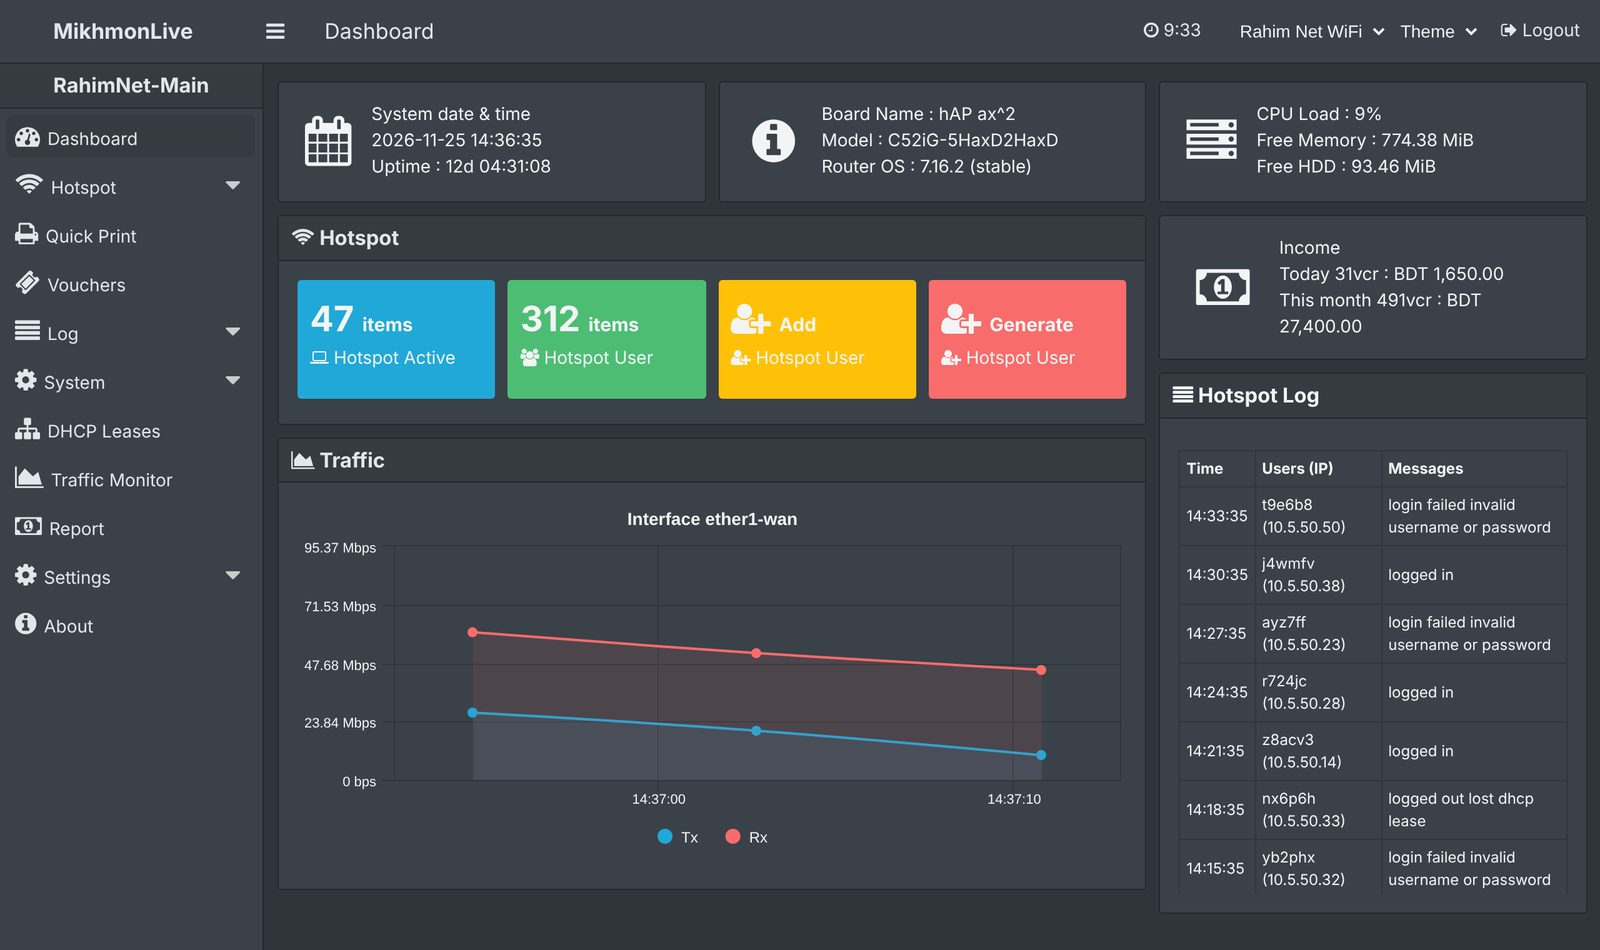
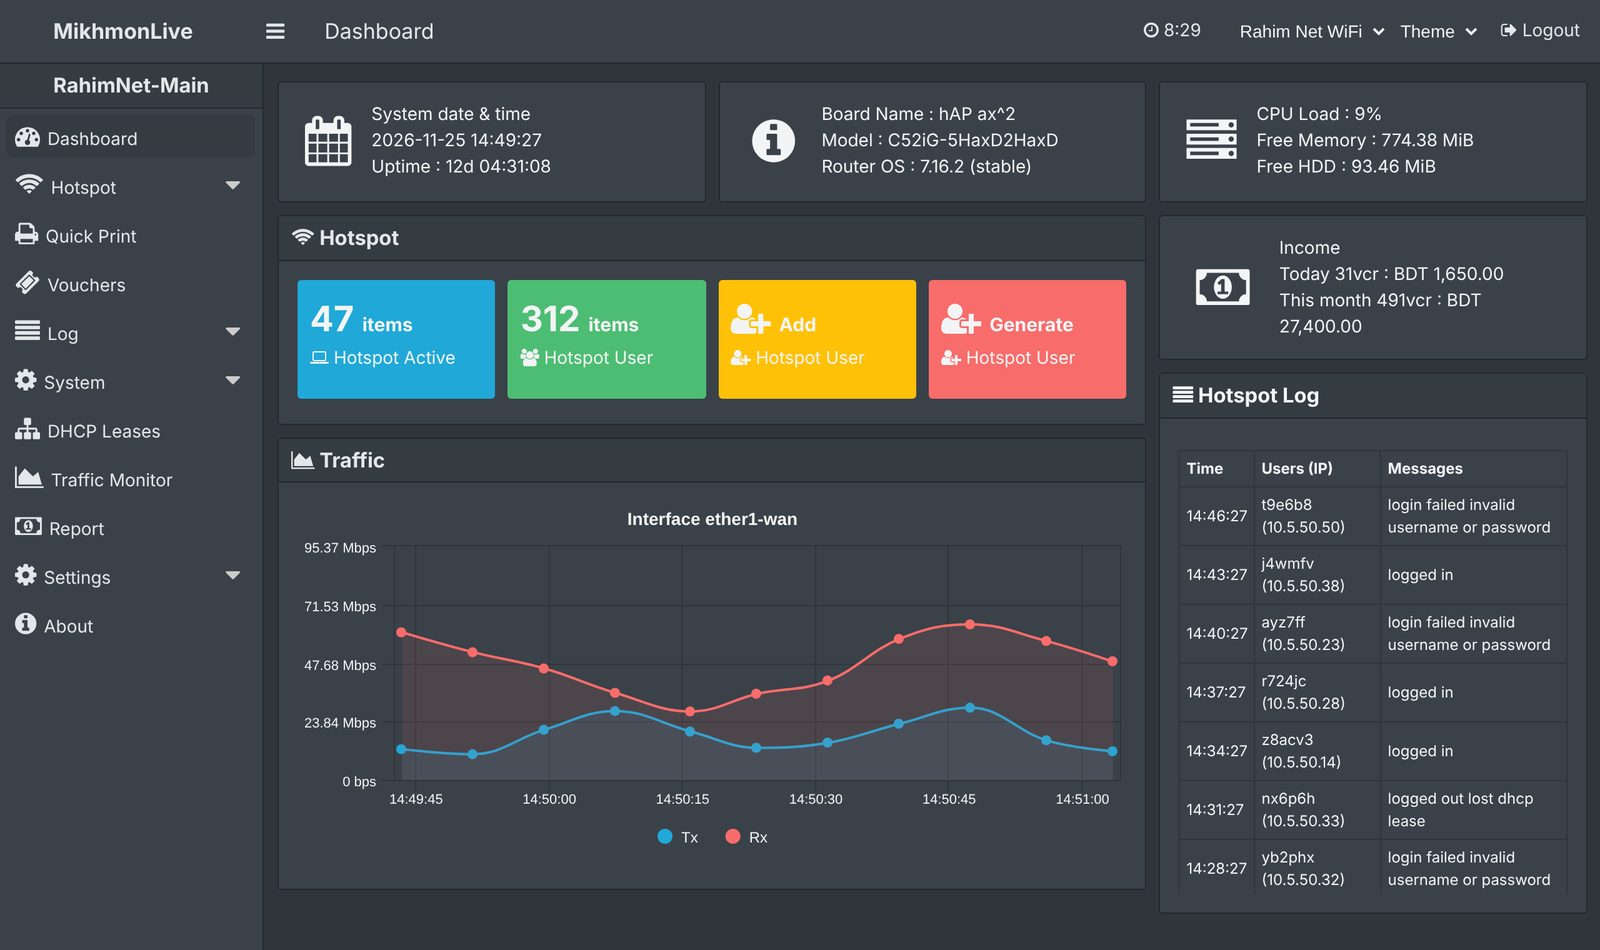
Portal: search engine optimisation of the landing page
- English (/) and Bangla (/?hl=bn) addresses with hreflang, canonical,
  title and description per language.
- Open Graph / Twitter cards with a 1200x630 preview image, favicon,
  optional Google / Bing verification tags.
- JSON-LD: organisation, website, the service with its packages as
  offers, and the FAQ.
- robots.txt and sitemap.xml from index.php (.htaccess for Apache,
  nginx lines in the README).
- Account pages and every customer subdomain send noindex; the app folder
  gets a robots.txt that blocks crawling.
- Hero screenshot retaken with a full live traffic chart.

Claude-Session: https://claude.ai/code/session_01LXHuYuxqYFuxwA2rCPLVcq

diff --git a/portal/src/seo.php b/portal/src/seo.php
@@ -1,0 +1,148 @@
+<?php
+/*
+ *  MikhmonLive portal - search engine optimisation.
+ *
+ *  - Two indexable addresses for the landing page:
+ *        https://mikhmonlive.com/          English
+ *        https://mikhmonlive.com/?hl=bn    Bangla
+ *    linked to each other with hreflang, each with its own canonical URL.
+ *  - Title, description, Open Graph / Twitter cards, favicon.
+ *  - Structured data (JSON-LD): Organization, WebSite, the service with
+ *    its three packages as offers, and the FAQ.
+ *  - /robots.txt and /sitemap.xml (served by index.php, see README).
+ *  - Account pages of the portal and every customer subdomain are noindex.
+ */
+
+if (!function_exists('mkp_site_url')) {
+
+	/** https://mikhmonlive.com (no trailing slash). */
+	function mkp_site_url()
+	{
+		$u = rtrim((string)mkl_site('portal_url'), '/');
+		return $u != '' ? $u : 'https://' . mkl_site('base_domain');
+	}
+
+	/** Address of the landing page in a language. */
+	function mkp_landing_url($lang)
+	{
+		return mkp_site_url() . '/' . ($lang == 'bn' ? '?hl=bn' : '');
+	}
+
+	function mkp_seo_title()
+	{
+		return t('seo_title', array(mkl_site('brand')));
+	}
+
+	/** All head tags of the landing page. */
+	function mkp_seo_head()
+	{
+		$lang = mkp_lang();
+		$url = mkp_landing_url($lang);
+		$title = mkp_seo_title();
+		$desc = t('seo_desc', array((int)mkl_site('trial_days')));
+		$img = mkp_site_url() . '/assets/og-image.jpg';
+		$h = '<title>' . e($title) . '</title>'
+			. '<meta name="description" content="' . e($desc) . '">'
+			. '<meta name="robots" content="index,follow,max-image-preview:large">'
+			. '<link rel="canonical" href="' . e($url) . '">'
+			. '<link rel="alternate" hreflang="en" href="' . e(mkp_landing_url('en')) . '">'
+			. '<link rel="alternate" hreflang="bn" href="' . e(mkp_landing_url('bn')) . '">'
+			. '<link rel="alternate" hreflang="x-default" href="' . e(mkp_landing_url('en')) . '">'
+			. '<meta name="theme-color" content="#07111f">'
+			. '<link rel="icon" type="image/png" href="assets/favicon.png"><link rel="apple-touch-icon" href="assets/favicon.png">'
+			// social cards (Facebook, WhatsApp, Messenger, LinkedIn, X)
+			. '<meta property="og:type" content="website">'
+			. '<meta property="og:site_name" content="' . e(mkl_site('brand')) . '">'
+			. '<meta property="og:url" content="' . e($url) . '">'
+			. '<meta property="og:title" content="' . e($title) . '">'
+			. '<meta property="og:description" content="' . e($desc) . '">'
+			. '<meta property="og:image" content="' . e($img) . '"><meta property="og:image:width" content="1200"><meta property="og:image:height" content="630">'
+			. '<meta property="og:image:alt" content="' . e(t('m_alt')) . '">'
+			. '<meta property="og:locale" content="' . ($lang == 'bn' ? 'bn_BD' : 'en_US') . '">'
+			. '<meta property="og:locale:alternate" content="' . ($lang == 'bn' ? 'en_US' : 'bn_BD') . '">'
+			. '<meta name="twitter:card" content="summary_large_image">'
+			. '<meta name="twitter:title" content="' . e($title) . '"><meta name="twitter:description" content="' . e($desc) . '">'
+			. '<meta name="twitter:image" content="' . e($img) . '">';
+		// ownership checks of Google Search Console and Bing Webmaster Tools
+		if (mkl_site('google_site_verification') != '') {
+			$h .= '<meta name="google-site-verification" content="' . e(mkl_site('google_site_verification')) . '">';
+		}
+		if (mkl_site('bing_site_verification') != '') {
+			$h .= '<meta name="msvalidate.01" content="' . e(mkl_site('bing_site_verification')) . '">';
+		}
+		return $h . mkp_seo_jsonld();
+	}
+
+	/** Structured data for rich results. Only facts shown on the page. */
+	function mkp_seo_jsonld()
+	{
+		$site = mkp_site_url();
+		$lang = mkp_lang();
+		$offers = array();
+		foreach (mkp_packages() as $p) {
+			$offers[] = array(
+				'@type' => 'Offer',
+				'name' => mkp_package_name($p),
+				'description' => t($p['routers'] == 1 ? 'pkg_routers' : 'pkg_routers_n', array($p['routers'])) . ', ' . t('per_year'),
+				'price' => (string)$p['price'],
+				'priceCurrency' => mkl_site('currency'),
+				'url' => mkp_landing_url($lang) . '#pricing',
+				'availability' => 'https://schema.org/InStock',
+				'category' => 'subscription',
+			);
+		}
+		$faq = array();
+		for ($i = 1; $i <= 8; $i++) {
+			$faq[] = array('@type' => 'Question', 'name' => t('q' . $i),
+				'acceptedAnswer' => array('@type' => 'Answer', 'text' => t('a' . $i, array((int)mkl_site('trial_days')))));
+		}
+		$org = array('@type' => 'Organization', '@id' => $site . '/#org', 'name' => mkl_site('brand'), 'url' => $site . '/', 'logo' => $site . '/assets/favicon.png');
+		if (mkl_site('support_contact') != '' && strpos(mkl_site('support_contact'), '@') !== false) {
+			$org['email'] = mkl_site('support_contact');
+		}
+		$graph = array(
+			'@context' => 'https://schema.org',
+			'@graph' => array(
+				$org,
+				array('@type' => 'WebSite', '@id' => $site . '/#web', 'name' => mkl_site('brand'), 'url' => $site . '/',
+					'inLanguage' => array('en', 'bn'), 'publisher' => array('@id' => $site . '/#org')),
+				array('@type' => 'SoftwareApplication', '@id' => $site . '/#app', 'name' => mkl_site('brand'),
+					'description' => t('seo_desc', array((int)mkl_site('trial_days'))),
+					'applicationCategory' => 'BusinessApplication', 'applicationSubCategory' => 'Hotspot management',
+					'operatingSystem' => 'Web browser; MikroTik RouterOS v6, v7',
+					'url' => mkp_landing_url($lang), 'image' => $site . '/assets/dashboard.jpg', 'screenshot' => $site . '/assets/dashboard.jpg',
+					'inLanguage' => $lang, 'publisher' => array('@id' => $site . '/#org'),
+					'featureList' => array(t('f1'), t('f2'), t('f3'), t('f4'), t('f5'), t('f6'), t('f7'), t('f8'), t('f9')),
+					'offers' => $offers),
+				array('@type' => 'FAQPage', '@id' => mkp_landing_url($lang) . '#faq', 'inLanguage' => $lang, 'mainEntity' => $faq),
+			),
+		);
+		// "</" must not appear inside a script element
+		return '<script type="application/ld+json">' . str_replace('</', '<\/', json_encode($graph, JSON_UNESCAPED_SLASHES | JSON_UNESCAPED_UNICODE)) . '</script>';
+	}
+
+	function mkp_robots_txt()
+	{
+		header('Content-Type: text/plain; charset=utf-8');
+		echo "User-agent: *\n"
+			. "Allow: /\n"
+			// account pages carry noindex as well; this saves crawl time
+			. "Disallow: /?p=\n"
+			. "\nSitemap: " . mkp_site_url() . "/sitemap.xml\n";
+	}
+
+	function mkp_sitemap_xml()
+	{
+		$last = date('Y-m-d', max(filemtime(__DIR__ . '/views_landing.php'), filemtime(__DIR__ . '/lang_landing.php')));
+		header('Content-Type: application/xml; charset=utf-8');
+		$alt = '<xhtml:link rel="alternate" hreflang="en" href="' . e(mkp_landing_url('en')) . '"/>'
+			. '<xhtml:link rel="alternate" hreflang="bn" href="' . e(mkp_landing_url('bn')) . '"/>'
+			. '<xhtml:link rel="alternate" hreflang="x-default" href="' . e(mkp_landing_url('en')) . '"/>';
+		echo '<?xml version="1.0" encoding="UTF-8"?>' . "\n"
+			. '<urlset xmlns="http://www.sitemaps.org/schemas/sitemap/0.9" xmlns:xhtml="http://www.w3.org/1999/xhtml">' . "\n";
+		foreach (array('en' => '1.0', 'bn' => '0.9') as $l => $prio) {
+			echo '<url><loc>' . e(mkp_landing_url($l)) . '</loc><lastmod>' . $last . '</lastmod><changefreq>weekly</changefreq><priority>' . $prio . '</priority>' . $alt . "</url>\n";
+		}
+		echo "</urlset>\n";
+	}
+}

diff --git a/tests/portal_test.py b/tests/portal_test.py
@@ -163,6 +163,31 @@ try:
     a = Browser(PP, 'mikhmon.test')
     ok('Create account' in a.go('./') and 'Most popular' in a.html and '৳1,200' in a.html and '৳3,000' in a.html and '৳7,500' in a.html, 'landing page with packages')
     ok('save 10%' in a.html and 'save 15%' in a.html and '৳2,700' in a.html and '৳19,125' in a.html, 'multi-year prices on the landing page')
+    # search engines
+    import xml.dom.minidom
+    def ld(html):
+        return json.loads(re.search(r'<script type="application/ld\+json">(.*?)</script>', html, re.S).group(1).replace('<\\/', '</'))
+    ok('<link rel="canonical" href="http://mikhmon.test/">' in a.html and 'hreflang="bn" href="http://mikhmon.test/?hl=bn"' in a.html
+       and 'property="og:image" content="http://mikhmon.test/assets/og-image.jpg"' in a.html and 'name="robots" content="index' in a.html, 'landing head tags')
+    ok(a.html.count('<h1') == 1 and '<main id="main">' in a.html and 'alt="MikhmonLive dashboard' in a.html, 'one h1, main landmark, image alt')
+    g = {x['@type']: x for x in ld(a.html)['@graph']}
+    offers = g['SoftwareApplication']['offers']
+    ok([o['price'] for o in offers] == ['1200', '3000', '7500'] and offers[0]['priceCurrency'] == 'BDT', 'packages in structured data')
+    ok(len(g['FAQPage']['mainEntity']) == 8 and g['FAQPage']['mainEntity'][1]['name'] == 'Do I need a public IP?', 'FAQ in structured data')
+    bn = Browser(PP, 'mikhmon.test')
+    bn.go('./?hl=bn')
+    ok('<html lang="bn">' in bn.html and '<link rel="canonical" href="http://mikhmon.test/?hl=bn">' in bn.html and 'অনলাইন Mikhmon' in bn.html
+       and 'bn_BD' in bn.html and ld(bn.html)['@graph'][3]['inLanguage'] == 'bn', 'Bangla address of the landing page')
+    raw = lambda path, host='mikhmon.test', port=PP: urllib.request.build_opener(urllib.request.ProxyHandler({}), NoRedirect).open(
+        urllib.request.Request('http://127.0.0.1:%d/%s' % (port, path), headers={'Host': host}))
+    r = raw('?p=robots')
+    body = r.read().decode()
+    ok(r.headers['Content-Type'].startswith('text/plain') and 'Sitemap: http://mikhmon.test/sitemap.xml' in body and 'Disallow: /?p=' in body and 'Set-Cookie' not in r.headers, 'robots.txt')
+    r = raw('?p=sitemap')
+    sm = xml.dom.minidom.parseString(r.read())
+    locs = [x.firstChild.data for x in sm.getElementsByTagName('loc')]
+    ok(locs == ['http://mikhmon.test/', 'http://mikhmon.test/?hl=bn'] and len(sm.getElementsByTagName('xhtml:link')) == 6, 'sitemap.xml: %s' % locs)
+    ok(raw('?p=login').headers.get('X-Robots-Tag') == 'noindex, nofollow' and raw('').headers.get('X-Robots-Tag') is None, 'account pages noindex, landing indexable')
     a.go('?p=register&plan=business')
     ok('Selected package: Business' in a.html, 'package chosen on the landing page is remembered')
     ok(Browser(PP, 'alice1.mikhmon.test').go('./') and 'Not found' in Browser(PP, 'alice1.mikhmon.test').go('./'), 'portal refuses customer hosts')
@@ -179,6 +204,11 @@ try:
     t = tenant('alice1')
     ok(t['plan'] == 'unverified' and t['expires'] < today, 'new account is closed until the address is confirmed: %s' % t)
     ok('Email not confirmed' in Browser(AP, 'alice1.mikhmon.test').go('admin.php?id=login'), 'Mikhmon is closed before confirmation')
+    try:
+        hdr = urllib.request.build_opener(urllib.request.ProxyHandler({})).open(urllib.request.Request('http://127.0.0.1:%d/admin.php?id=login' % AP, headers={'Host': 'alice1.mikhmon.test'})).headers
+    except urllib.error.HTTPError as ex:
+        hdr = ex.headers
+    ok(hdr.get('X-Robots-Tag') == 'noindex, nofollow', 'customer subdomains are noindex')
     a.post('?p=vpn-add', {'name': 'Early', 'type': 'wg'}, form='?p=vpn')
     ok('confirm your email address first' in a.html and not os.path.exists(os.path.join(DATA, 'vpn', 'wg-peers.conf')), 'no router connection before confirmation')
 

diff --git a/portal/src/views_landing.php b/portal/src/views_landing.php
@@ -92,6 +92,7 @@ function v_landing()
 	$base = e(mkl_site('base_domain'));
 	$trial = (int)mkl_site('trial_days');
 	$other = mkp_lang() == 'bn' ? array('en', 'English') : array('bn', 'বাংলা');
+	require_once(__DIR__ . '/seo.php');
 	$start = e(mkp_url('register'));
 
 	$feats = array(array('ticket', 'f1'), array('clock', 'f2'), array('chart', 'f3'), array('pulse', 'f4'), array('tunnel', 'f5'),
@@ -128,18 +129,18 @@ function v_landing()
 
 	return '<!DOCTYPE html><html lang="' . mkp_lang() . '"><head><meta charset="utf-8">'
 		. '<meta name="viewport" content="width=device-width, initial-scale=1">'
-		. '<title>' . $brand . ' - ' . e(t('l_title_1')) . ' ' . e(t('l_title_2')) . '</title>'
-		. '<meta name="description" content="' . e(t('l_sub')) . '">'
+		. mkp_seo_head()
 		. '<link rel="preconnect" href="https://fonts.googleapis.com"><link rel="preconnect" href="https://fonts.gstatic.com" crossorigin>'
 		. '<link rel="stylesheet" href="https://fonts.googleapis.com/css2?family=Hind+Siliguri:wght@400;500;600;700&family=Plus+Jakarta+Sans:wght@400;500;600;700;800&display=swap">'
 		. '<link rel="stylesheet" href="assets/landing.css?v=1"></head><body class="lp ' . mkp_lang() . '">'
 
 		// navigation
-		. '<header class="lnav"><div class="wrap"><a class="logo" href="./">' . v_icon('wifi') . $brand . '</a>'
+		. '<header class="lnav"><div class="wrap"><a class="logo" href="./' . (mkp_lang() == 'bn' ? '?hl=bn' : '') . '" aria-label="' . $brand . '">' . v_icon('wifi') . $brand . '</a>'
 		. '<nav><a href="#features">' . e(t('l_nav_features')) . '</a><a href="#how">' . e(t('l_nav_how')) . '</a><a href="#pricing">' . e(t('l_nav_pricing')) . '</a><a href="#faq">' . e(t('l_nav_faq')) . '</a></nav>'
-		. '<div class="lnav-r"><a class="lang" href="' . e(mkp_url('lang', array('l' => $other[0]))) . '">' . $other[1] . '</a>'
+		. '<div class="lnav-r"><a class="lang" href="./?hl=' . $other[0] . '" hreflang="' . $other[0] . '" lang="' . $other[0] . '">' . $other[1] . '</a>'
 		. '<a class="login" href="' . e(mkp_url('login')) . '">' . e(t('nav_login')) . '</a><a class="lbtn solid sm" href="' . $start . '">' . e(t('l_start')) . '</a></div></div></header>'
 
+		. '<main id="main">'
 		// hero
 		. '<section class="hero"><div class="glow g1"></div><div class="glow g2"></div><div class="wrap hero-in"><div class="hero-copy">'
 		. '<span class="kick">' . v_icon('check') . e(t('l_badge')) . '</span>'
@@ -184,6 +185,7 @@ function v_landing()
 		. '<section class="final"><div class="wrap final-in"><h2>' . e(t('l_final_title')) . '</h2><p>' . e(t('l_final_text', array(mkl_site('base_domain')))) . '</p>'
 		. '<a class="lbtn light lg" href="' . $start . '">' . e($cta) . v_icon('arrow') . '</a></div></section>'
 
+		. '</main>'
 		. '<footer class="lfoot"><div class="wrap"><div class="logo">' . v_icon('wifi') . $brand . '</div><p>' . e(t('l_footer')) . '</p>'
 		. '<p class="links"><a href="' . e(mkp_url('login')) . '">' . e(t('nav_login')) . '</a><a href="' . $start . '">' . e(t('nav_register')) . '</a>'
 		. (mkl_site('support_contact') != '' ? '<a href="mailto:' . e(mkl_site('support_contact')) . '">' . e(mkl_site('support_contact')) . '</a>' : '') . '</p></div></footer>'

diff --git a/portal/src/lang_landing.php b/portal/src/lang_landing.php
@@ -38,6 +38,11 @@ function mkp_texts_landing()
 		'chosen_package' => array('en' => 'Selected package: %s', 'bn' => 'বেছে নেওয়া প্যাকেজ: %s'),
 		'upgrade_note' => array('en' => 'A paid order sets your plan to the chosen package and adds the years after your current paid period.', 'bn' => 'পেমেন্ট হলে আপনার প্ল্যান বেছে নেওয়া প্যাকেজে সেট হবে এবং বর্তমান মেয়াদের পরে বছরগুলো যোগ হবে।'),
 
+		// search engines (title about 60 characters, description about 155)
+		'seo_title' => array('en' => '%s: Mikhmon Online for MikroTik Hotspot Vouchers', 'bn' => '%s: অনলাইন Mikhmon, MikroTik হটস্পট ভাউচার সফটওয়্যার'),
+		'seo_desc' => array('en' => 'Cloud Mikhmon for MikroTik hotspots: vouchers, auto expiry, sales reports and a live dashboard. RouterOS v6 and v7.10+, no public IP. %s day free trial.',
+			'bn' => 'MikroTik হটস্পটের জন্য ক্লাউড Mikhmon: ভাউচার, স্বয়ংক্রিয় মেয়াদ, বিক্রির রিপোর্ট ও লাইভ ড্যাশবোর্ড। RouterOS v6 ও v7.10+, public IP লাগে না। %s দিন ফ্রি ট্রায়াল।'),
+
 		// landing navigation
 		'l_nav_features' => array('en' => 'Features', 'bn' => 'ফিচার'),
 		'l_nav_how' => array('en' => 'How it works', 'bn' => 'কীভাবে কাজ করে'),

diff --git a/portal/public/index.php b/portal/public/index.php
@@ -24,6 +24,17 @@ if (!in_array($mkphost, array($mkpbase, 'www.' . $mkpbase, $mkpportal), true)) {
 	mkl_stop(404, 'Not found', 'This page does not exist.');
 }
 
+// files for search engines: answered before any session is started
+$p = isset($_GET['p']) && is_string($_GET['p']) ? $_GET['p'] : '';
+if ($p == 'robots' || $p == 'sitemap') {
+	require_once(__DIR__ . '/../src/lang.php');
+	require_once(__DIR__ . '/../src/views_landing.php');
+	require_once(__DIR__ . '/../src/seo.php');
+	$_SESSION = array();
+	$p == 'robots' ? mkp_robots_txt() : mkp_sitemap_xml();
+	exit;
+}
+
 $mkpsecure = (!empty($_SERVER['HTTPS']) && $_SERVER['HTTPS'] != 'off')
 	|| (isset($_SERVER['HTTP_X_FORWARDED_PROTO']) && $_SERVER['HTTP_X_FORWARDED_PROTO'] == 'https');
 session_name('MKLPORTAL');
@@ -31,6 +42,10 @@ session_name('MKLPORTAL');
 session_set_cookie_params(array('lifetime' => 0, 'path' => '/', 'secure' => $mkpsecure, 'httponly' => true, 'samesite' => 'Lax'));
 session_start();
 header('X-Frame-Options: DENY');
+if ($p !== '') {
+	// only the landing page belongs in search results
+	header('X-Robots-Tag: noindex, nofollow');
+}
 header('X-Content-Type-Options: nosniff');
 header('Referrer-Policy: same-origin');
 
@@ -74,6 +89,10 @@ if (substr($p, 0, 5) == 'admin' && (!$u || !$u['is_admin'])) {
 
 switch ($p) {
 	case '':
+		// /?hl=bn is the Bangla address of the landing page (search engines index both)
+		if (isset($_GET['hl']) && in_array($_GET['hl'], array('en', 'bn'), true)) {
+			$_SESSION['lang'] = $_GET['hl'];
+		}
 		echo v_home();
 		break;
 

diff --git a/lib/mkl_store.php b/lib/mkl_store.php
@@ -74,6 +74,8 @@ if (!defined('MKL_ROOT')) {
 				'paystation_sandbox' => false,
 				'paystation_url' => '',       // override the API base URL (tests)
 				'support_contact' => '',
+				'google_site_verification' => '', // content of the Google Search Console meta tag
+				'bing_site_verification' => '',   // content of the Bing Webmaster msvalidate.01 tag
 
 				// ---- e-mail (portal) ----
 				'smtp_host' => '',            // '' = no e-mail
@@ -172,6 +174,10 @@ if (!defined('MKL_ROOT')) {
 			return;
 		}
 
+		// customer subdomains are private, also their error pages: keep them out of search engines
+		if (PHP_SAPI !== 'cli' && !headers_sent()) {
+			header('X-Robots-Tag: noindex, nofollow');
+		}
 		$tenant = PHP_SAPI === 'cli' ? (string)getenv('MKL_TENANT') : mkl_tenant_from_host(isset($_SERVER['HTTP_HOST']) ? $_SERVER['HTTP_HOST'] : '');
 		if (!mkl_valid_tenant($tenant) || !is_dir(mkl_tenant_dir($tenant))) {
 			mkl_stop(404, 'Account not found', 'There is no account at this address.');

diff --git a/portal/src/views.php b/portal/src/views.php
@@ -27,7 +27,8 @@ function v_layout($title, $body, $active = '')
 	$msg = $flash ? '<div class="msg ' . e($flash[0]) . '">' . e($flash[1]) . '</div>' : '';
 	return '<!DOCTYPE html><html lang="' . mkp_lang() . '"><head><meta charset="utf-8">'
 		. '<meta name="viewport" content="width=device-width, initial-scale=1">'
-		. '<title>' . e($title) . ' - ' . $brand . '</title><link rel="stylesheet" href="assets/portal.css?v=1"></head><body>'
+		. '<title>' . e($title) . ' - ' . $brand . '</title><meta name="robots" content="noindex,nofollow"><link rel="icon" type="image/png" href="assets/favicon.png">'
+		. '<link rel="stylesheet" href="assets/portal.css?v=1"></head><body>'
 		. '<div class="top"><div class="in"><a class="brand" href="' . e(mkp_url($u ? 'dashboard' : '')) . '">' . $brand . '</a>' . $links . '</div></div>'
 		. '<main><div class="in">' . $msg . $body . '</div></main>'
 		. '<footer><div class="in">' . $brand . ' &middot; based on MIKHMON by Laksamadi Guko (GPL v2)'

diff --git a/include/site.sample.php b/include/site.sample.php
@@ -37,6 +37,11 @@ return array(
 	'require_verified' => true,
 	'support_contact' => 'support@mikhmonlive.com',
 
+	// Search engines: paste the code of the HTML tag method from
+	// Google Search Console / Bing Webmaster Tools (only the content="..." value).
+	'google_site_verification' => '',
+	'bing_site_verification' => '',
+
 	// Manual payment: shown on the billing page; the customer sends the transaction ID
 	// and you approve the order in the portal (Admin). '' switches manual payment off.
 	'manual_payment' => "bKash / Nagad (Send Money): 01XXXXXXXXX",

diff --git a/README.md b/README.md
@@ -55,6 +55,30 @@ How it works:
 - Manual payment: the customer enters method, sender number and transaction ID; you approve or reject it.
 - The database is one SQLite file next to the tenant folder (`portal.sqlite`). Back it up together with the tenant folder and the key file.
 
+### Search engines (SEO)
+
+The landing page is built for search engines; nothing else needs to be installed:
+
+- two indexed addresses, English `https://mikhmonlive.com/` and Bangla `https://mikhmonlive.com/?hl=bn`, linked with `hreflang` and each with its own canonical URL, title and description,
+- structured data (JSON-LD): organisation, the service with the three packages and prices, and the FAQ (Google can show prices and questions in results),
+- Open Graph / Twitter cards with `assets/og-image.jpg`, so links shared on Facebook, WhatsApp or Messenger show a preview,
+- `/robots.txt` and `/sitemap.xml`,
+- account pages of the portal and every customer subdomain send `noindex`; the app folder also has a `robots.txt` that blocks crawling of customer subdomains.
+
+On nginx (aaPanel) add to the **portal** site configuration (Apache uses `portal/public/.htaccess`):
+
+```
+location = /robots.txt  { rewrite ^ /index.php?p=robots last; }
+location = /sitemap.xml { rewrite ^ /index.php?p=sitemap last; }
+```
+
+After going live:
+
+1. Add the site in [Google Search Console](https://search.google.com/search-console) with the *HTML tag* method and put the code in `google_site_verification` in `include/site.php` (Bing: `bing_site_verification`).
+2. Submit `https://mikhmonlive.com/sitemap.xml` there.
+3. Use HTTPS on the bare domain and redirect `www` to it, so only one address is indexed.
+4. Ranking also needs links: a Facebook page, YouTube setup videos, MikroTik groups and forums that link to the site help more than anything on the page itself.
+
 ### E-mail
 
 Set the SMTP account in the e-mail section of `include/site.php` (for example a mailbox created in aaPanel's mail server, or any SMTP service) and check it:
